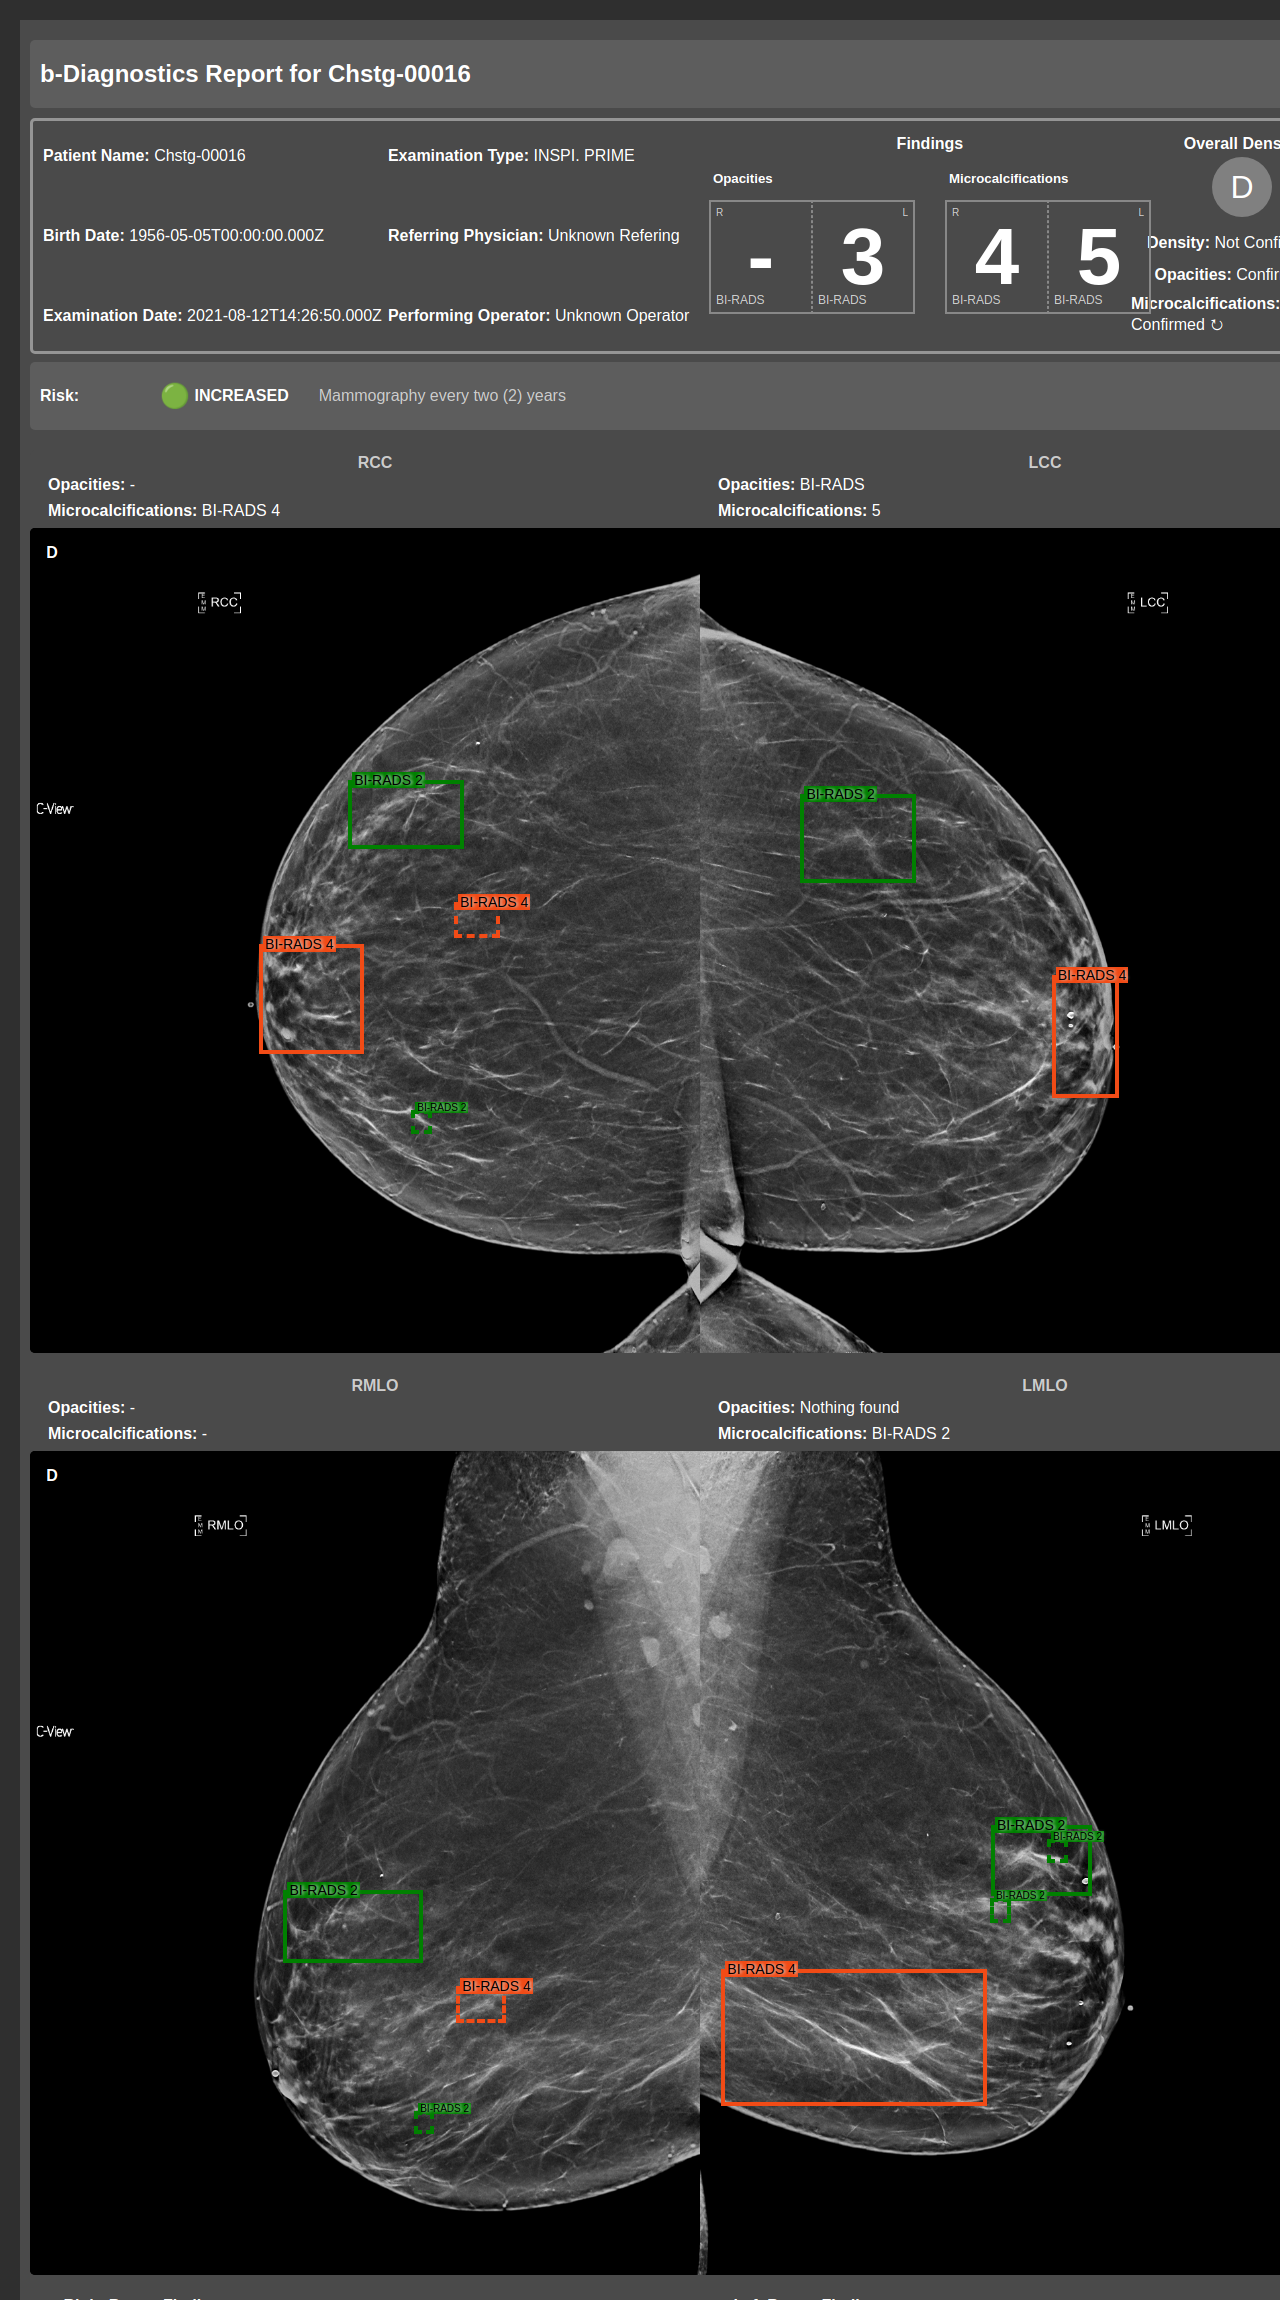
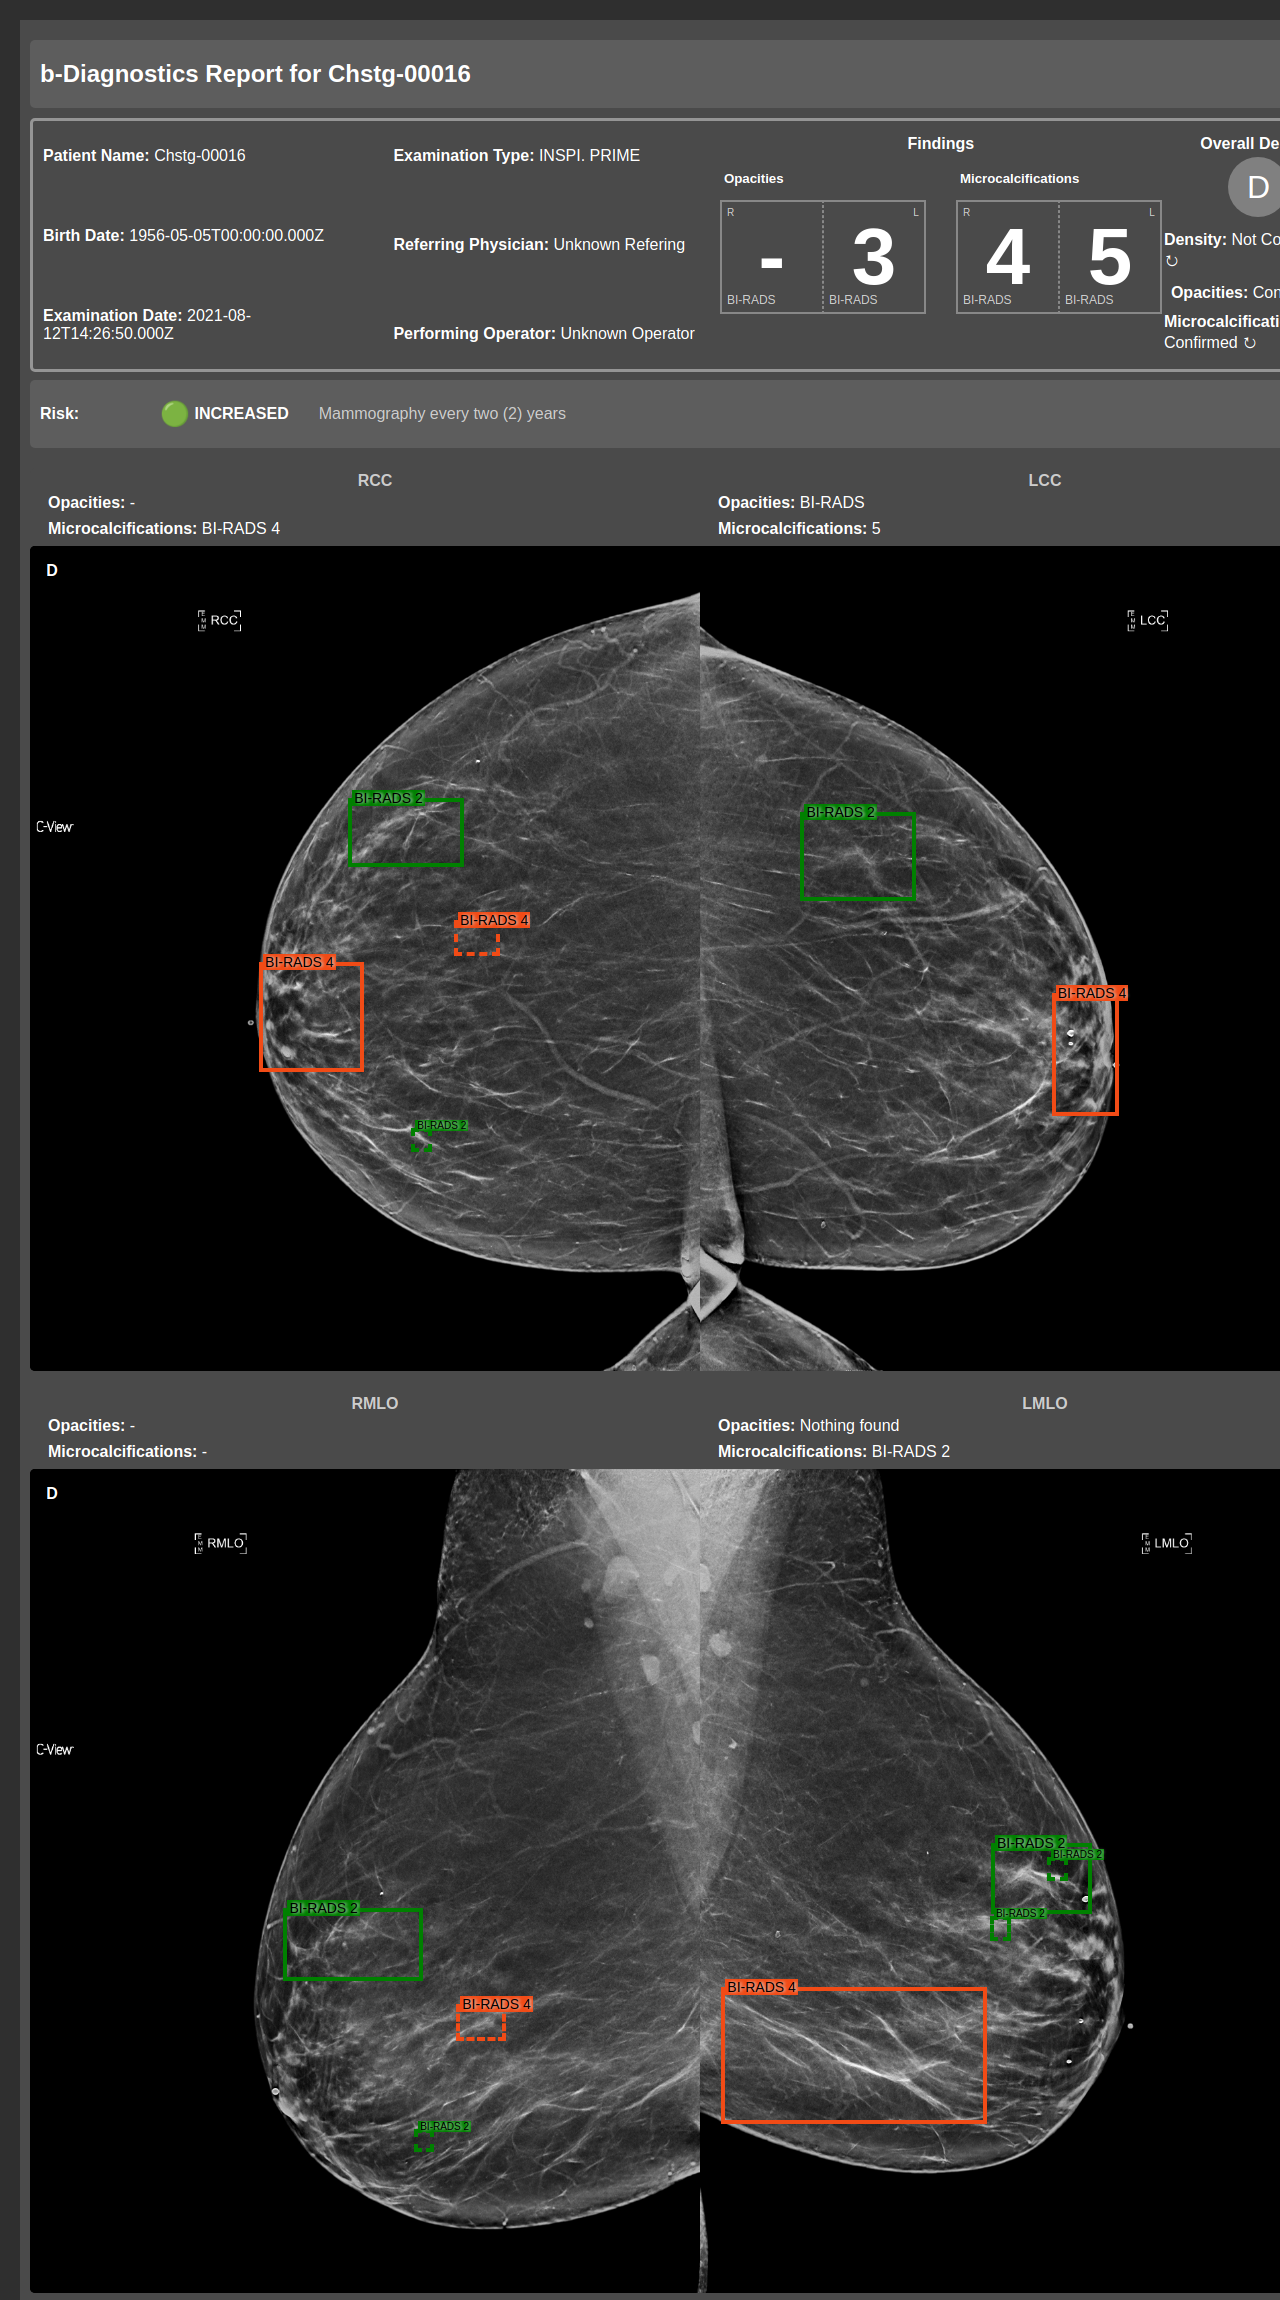
layout fixes

diff --git a/templates/report_quality.html b/templates/report_quality.html
@@ -16,17 +16,17 @@
         {% if not anonimize %}
         <!-- Patient info -->
         <div class="patient-info">
-          <p class="general_texts"><strong>{{ patient_name_label }}:</strong> {{ patient_name }}</p>
-          <p class="general_texts"><strong>{{ birth_date_label }}:</strong> {{ patient_birth }}</p>
-          <p class="general_texts"><strong>{{ examination_date_label }}:</strong> {{ exam_date }}</p>
-          <p class="general_texts"><strong>{{ quality_system_label }}:</strong> {{ quality_system_name }}</p>
+          <p class="general-texts"><strong>{{ patient_name_label }}:</strong> {{ patient_name }}</p>
+          <p class="general-texts"><strong>{{ birth_date_label }}:</strong> {{ patient_birth }}</p>
+          <p class="general-texts"><strong>{{ examination_date_label }}:</strong> {{ exam_date }}</p>
+          <p class="general-texts"><strong>{{ quality_system_label }}:</strong> {{ quality_system_name }}</p>
         </div>
         <!-- Middle Column more exam info-->
         <div class="exam-info">
-          <p class="general_texts"><strong>{{ examination_type_label }}:</strong> {{ exam_type }}</p>
-          <p class="general_texts"><strong>{{ referring_physician_label }}:</strong> {{ ref_phys }}</p>
-          <p class="general_texts"><strong>{{ performing_operator_label }}:</strong> {{ operator_name }}</p>
-          <p class="general_texts"><strong>{{ quality_values_label }}:</strong> {{ quality_values }}</p>
+          <p class="general-texts"><strong>{{ examination_type_label }}:</strong> {{ exam_type }}</p>
+          <p class="general-texts"><strong>{{ referring_physician_label }}:</strong> {{ ref_phys }}</p>
+          <p class="general-texts"><strong>{{ performing_operator_label }}:</strong> {{ operator_name }}</p>
+          <p class="general-texts"><strong>{{ quality_values_label }}:</strong> {{ quality_values }}</p>
         </div>
         <!-- Quality Module -->
         <div class="quality-module">
@@ -35,7 +35,7 @@
             <div class="quality-overall {{ overall_quality }}_background">{{ overall_quality }}</div>
           </div>
   
-          <p class="general_texts"><strong>{{ quality_label }}:</strong> {{ quality_confirmed }} {{ quality_confirmed_icon|safe }}</p>
+          <p class="general-texts"><strong>{{ quality_label }}:</strong> {{ quality_confirmed }} {{ quality_confirmed_icon|safe }}</p>
         </div>
   
         <!-- Right Column (density and module status) -->

diff --git a/templates/report_diagnostics.html b/templates/report_diagnostics.html
@@ -15,13 +15,13 @@
         <div class="header-info">
           {% if not anonimize %}
           <!-- Patient info -->
-          <div class="patient-info">
+          <div class="patient-info patient-info-diagnose">
             <p><strong>{{ patient_name_label }}:</strong> {{ patient_name }}</p>
             <p><strong>{{ birth_date_label }}:</strong> {{ patient_birth }}</p>
             <p><strong>{{ examination_date_label }}:</strong> {{ exam_date }}</p>
           </div>
           <!-- Middle Column more exam info-->
-          <div class="exam-info">
+          <div class="exam-info exam-info-diagnose">
             <p><strong>{{ examination_type_label }}:</strong> {{ exam_type }}</p>
             <p><strong>{{ referring_physician_label }}:</strong> {{ ref_phys }}</p>
             <p><strong>{{ performing_operator_label }}:</strong> {{ operator_name }}</p>
@@ -67,7 +67,7 @@
           </div>
   
           <!-- Right Column (density and module status) -->
-          <div class="density-module">
+          <div class="density-module density-module-diagnose">
             <p class="no-padding-texts"><strong>{{ overall_density_label }}</strong></p>
             <div class="density-circle perfect_color">{{ overall_density }}</div>
             <p class="no-padding-texts"><strong>{{ density_label }}:</strong> {{ density_confirmed }} &#8635;</p>

diff --git a/static/style.css b/static/style.css
@@ -43,7 +43,7 @@
   padding: 10px;
 }
 
-.general_texts{
+.general-texts{
   margin: 6px
 }
 
@@ -63,6 +63,15 @@
   justify-content: space-between;
 }
 
+
+.patient-info-diagnose {
+  width: 25%;
+}
+
+.exam-info-diagnose {
+  width: 25%;
+}
+
 .exam-details {
   display: flex;
   justify-content: space-between;
@@ -73,6 +82,10 @@
   display: flex;
   flex-direction: column;
   align-items: center;
+}
+
+.density-module-diagnose {
+  width: 15%;
 }
 
 .density-status {
